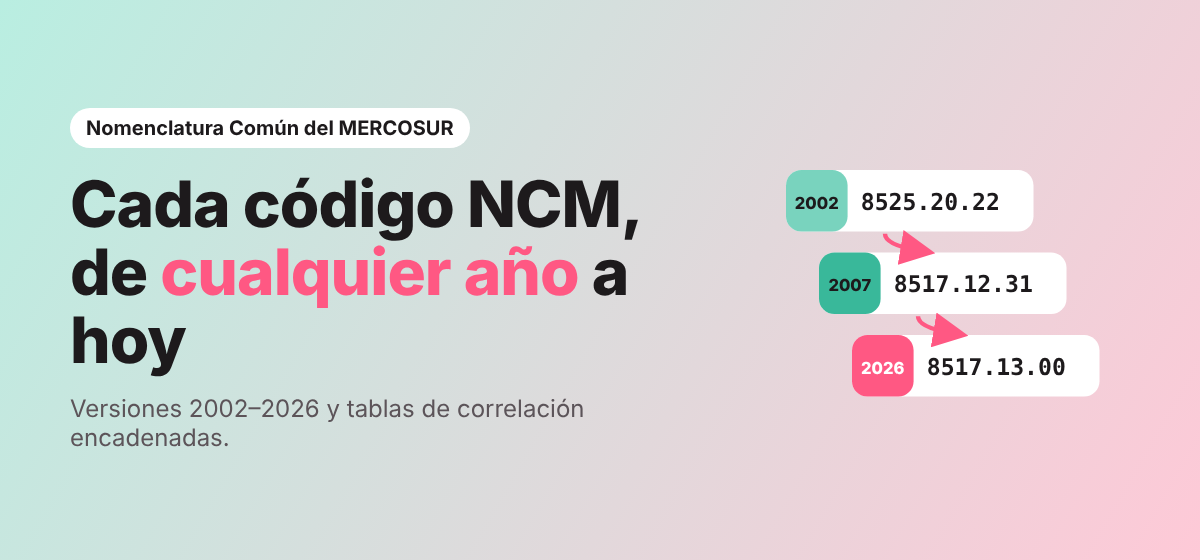
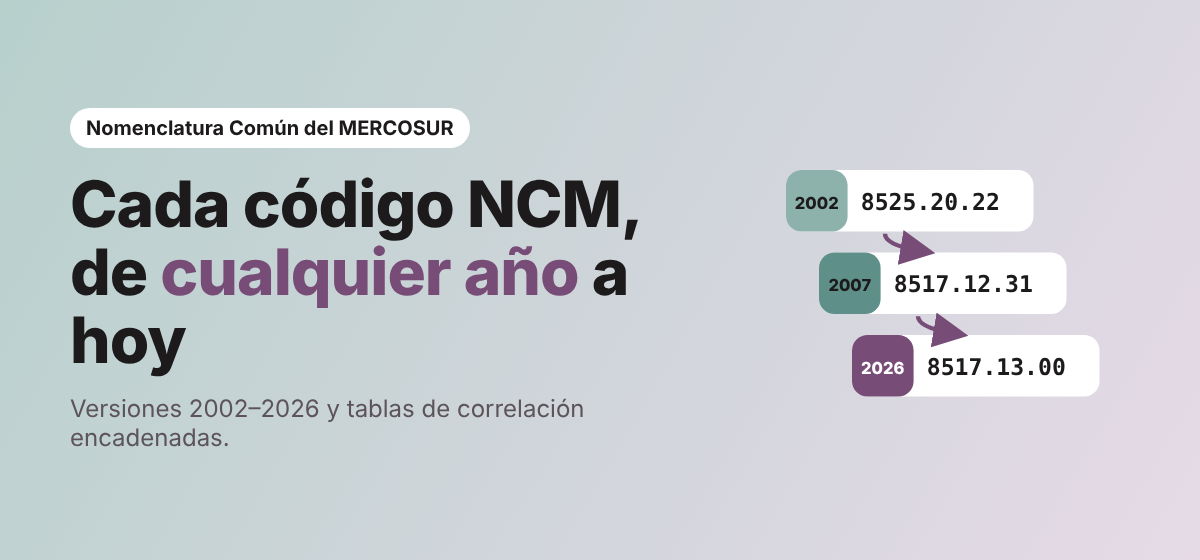
Paleta nueva (violeta y verde agua); al imprimir, siempre tema claro; enlace para bajar cada gráfico con fondo blanco

diff --git a/docs/listas.html b/docs/listas.html
@@ -13,21 +13,21 @@
 <meta property="og:url" content="https://silvia-mov.github.io/nomenclaturas-y-correlaciones-del-mercosur/listas.html">
 <style>
 :root {
-  --bg: #fffafb; --panel: #ffffff; --text: #1d1a1c; --text2: #5c5459; --line: #f3dde4;
-  --s1: #39b89a; --s2: #fec9d7; --s3: #ff5883; --s4: #79d3be; --accent: #1f7f68; --code: #fdf0f4; --link: #1f7f68; --btn: #39b89a; --btntext: #08261f; --hero1: #b9eee1; --hero2: #fec9d7;
-  --tag: #fec9d7; --tagtext: #7a2440; --s2b: #e7a3b8;
+  --bg: #fdfaf3; --panel: #ffffff; --text: #1d1a1c; --text2: #5c5459; --line: #e9e1d3;
+  --s1: #5e8f88; --s2: #e6dae7; --s3: #774d78; --s4: #8db2ac; --accent: #3f6b65; --code: #f7f1e6; --link: #3f6b65; --btn: #5e8f88; --btntext: #08261f; --hero1: #b7d0cc; --hero2: #e6dae7;
+  --tag: #e6dae7; --tagtext: #4f3050; --s2b: #c7b0c8;
 }
 @media (prefers-color-scheme: dark) {
   :root:not([data-theme="light"]) {
     --bg: #161314; --panel: #201b1d; --text: #f5eef1; --text2: #bfb3b8; --line: #3a2f33;
-    --s1: #39b89a; --s2: #6b3a4a; --s3: #ff91ad; --s4: #b9eee1; --accent: #79d3be; --code: #2a2225; --link: #79d3be; --btn: #39b89a; --btntext: #08261f; --hero1: #123a31; --hero2: #3d1a26;
-    --tag: #3d1a26; --tagtext: #ffc2d2; --s2b: #c9758f;
+    --s1: #5e8f88; --s2: #4a3a4d; --s3: #af8eb1; --s4: #b7d0cc; --accent: #8db2ac; --code: #2a2225; --link: #8db2ac; --btn: #5e8f88; --btntext: #08261f; --hero1: #24403c; --hero2: #3a2a3b;
+    --tag: #3a2a3b; --tagtext: #d9c6da; --s2b: #9c7a9e;
   }
 }
 :root[data-theme="dark"] {
   --bg: #161314; --panel: #201b1d; --text: #f5eef1; --text2: #bfb3b8; --line: #3a2f33;
-  --s1: #39b89a; --s2: #6b3a4a; --s3: #ff91ad; --s4: #b9eee1; --accent: #79d3be; --code: #2a2225; --link: #79d3be; --btn: #39b89a; --btntext: #08261f; --hero1: #123a31; --hero2: #3d1a26;
-  --tag: #3d1a26; --tagtext: #ffc2d2; --s2b: #c9758f;
+  --s1: #5e8f88; --s2: #4a3a4d; --s3: #af8eb1; --s4: #b7d0cc; --accent: #8db2ac; --code: #2a2225; --link: #8db2ac; --btn: #5e8f88; --btntext: #08261f; --hero1: #24403c; --hero2: #3a2a3b;
+  --tag: #3a2a3b; --tagtext: #d9c6da; --s2b: #9c7a9e;
 }
 * { box-sizing: border-box; }
 html { -webkit-text-size-adjust: 100%; }
@@ -95,10 +95,10 @@ details { border-bottom: 1px solid var(--line); padding: 10px 0; max-width: 760p
 summary { cursor: pointer; font-weight: 600; }
 footer { margin-top: 48px; padding: 28px 0 48px; border-top: 1px solid var(--line); font-size: 14px; color: var(--text2); }
 .comentar { margin: 40px auto 0; max-width: 960px; padding: 0 16px; }
-.comentar .caja { border: 1.5px dashed #79d3be; border-radius: 12px; padding: 18px 20px; }
+.comentar .caja { border: 1.5px dashed #8db2ac; border-radius: 12px; padding: 18px 20px; }
 .comentar h2 { margin: 0 0 8px; }
 .comentar p { margin: 0 0 14px; }
-.comentar a.boton { display: inline-block; padding: 9px 16px; border-radius: 8px; background: #39b89a; color: #08261f; font-weight: 600; text-decoration: none; }
+.comentar a.boton { display: inline-block; padding: 9px 16px; border-radius: 8px; background: #5e8f88; color: #08261f; font-weight: 600; text-decoration: none; }
 .sr { position: absolute; width: 1px; height: 1px; overflow: hidden; clip: rect(0 0 0 0); white-space: nowrap; }
 @media print { nav.toc, .btns, .consulta, .comentar { display: none !important; } }
 .aviso-top { background: var(--panel); border-bottom: 1px solid var(--line); color: var(--text2); font-size: 13.5px; text-align: center; padding: 7px 16px; }
@@ -352,6 +352,31 @@ footer { margin-top: 48px; padding: 28px 0 48px; border-top: 1px solid var(--lin
     D = d;
     r.innerHTML = '<p class="chica">Listo: ' + Object.keys(d.codigos).length.toLocaleString('es-PY') + ' códigos que estuvieron en alguna lista entre 2018 y 2026.</p>';
   }).catch(function () { r.innerHTML = '<p class="chica">No se pudieron cargar los datos. Probá de nuevo más tarde.</p>'; });
+})();
+</script>
+<script>
+/* Al imprimir: siempre tema claro y gráficos con fondo blanco. Debajo de cada gráfico, un enlace para bajarlo en versión clara. */
+(function () {
+  var st = document.createElement("style");
+  st.textContent = ".dl-graf{display:inline-block;font-size:13px;margin:6px 0 0;color:var(--link,inherit)}@media print{.dl-graf{display:none}}";
+  document.head.appendChild(st);
+  var antes = null;
+  addEventListener("beforeprint", function () {
+    var r = document.documentElement; antes = r.getAttribute("data-theme"); r.setAttribute("data-theme", "light");
+    document.querySelectorAll('picture source[media*="dark"]').forEach(function (s) { s.dataset.m = s.media; s.media = "not all"; });
+  });
+  addEventListener("afterprint", function () {
+    var r = document.documentElement; if (antes === null) r.removeAttribute("data-theme"); else r.setAttribute("data-theme", antes);
+    document.querySelectorAll("picture source[data-m]").forEach(function (s) { s.media = s.dataset.m; });
+  });
+  document.querySelectorAll("picture img").forEach(function (img) {
+    var src = img.getAttribute("src") || "";
+    if (!/_light\.png$/.test(src) || /tarjeta/.test(src)) return;
+    var a = document.createElement("a");
+    a.href = src; a.download = src.split("/").pop().replace("_light", ""); a.className = "dl-graf";
+    a.textContent = "Descargar gráfico (fondo blanco)";
+    img.closest("picture").insertAdjacentElement("afterend", a);
+  });
 })();
 </script>
 </body>

diff --git a/docs/index.html b/docs/index.html
@@ -14,21 +14,21 @@
 <meta property="og:image" content="https://silvia-mov.github.io/nomenclaturas-y-correlaciones-del-mercosur/img/tarjeta_light.png">
 <style>
 :root {
-  --bg: #fffafb; --panel: #ffffff; --text: #1d1a1c; --text2: #5c5459; --line: #f3dde4;
-  --s1: #39b89a; --s2: #fec9d7; --s3: #ff5883; --s4: #79d3be; --accent: #1f7f68; --code: #fdf0f4; --link: #1f7f68; --btn: #39b89a; --btntext: #08261f; --hero1: #b9eee1; --hero2: #fec9d7;
-  --tag: #fec9d7; --tagtext: #7a2440;
+  --bg: #fdfaf3; --panel: #ffffff; --text: #1d1a1c; --text2: #5c5459; --line: #e9e1d3;
+  --s1: #5e8f88; --s2: #e6dae7; --s3: #774d78; --s4: #8db2ac; --accent: #3f6b65; --code: #f7f1e6; --link: #3f6b65; --btn: #5e8f88; --btntext: #08261f; --hero1: #b7d0cc; --hero2: #e6dae7;
+  --tag: #e6dae7; --tagtext: #4f3050;
 }
 @media (prefers-color-scheme: dark) {
   :root:not([data-theme="light"]) {
     --bg: #161314; --panel: #201b1d; --text: #f5eef1; --text2: #bfb3b8; --line: #3a2f33;
-    --s1: #39b89a; --s2: #6b3a4a; --s3: #ff91ad; --s4: #b9eee1; --accent: #79d3be; --code: #2a2225; --link: #79d3be; --btn: #39b89a; --btntext: #08261f; --hero1: #123a31; --hero2: #3d1a26;
-    --tag: #3d1a26; --tagtext: #ffc2d2;
+    --s1: #5e8f88; --s2: #4a3a4d; --s3: #af8eb1; --s4: #b7d0cc; --accent: #8db2ac; --code: #2a2225; --link: #8db2ac; --btn: #5e8f88; --btntext: #08261f; --hero1: #24403c; --hero2: #3a2a3b;
+    --tag: #3a2a3b; --tagtext: #d9c6da;
   }
 }
 :root[data-theme="dark"] {
   --bg: #161314; --panel: #201b1d; --text: #f5eef1; --text2: #bfb3b8; --line: #3a2f33;
-  --s1: #39b89a; --s2: #6b3a4a; --s3: #ff91ad; --s4: #b9eee1; --accent: #79d3be; --code: #2a2225; --link: #79d3be; --btn: #39b89a; --btntext: #08261f; --hero1: #123a31; --hero2: #3d1a26;
-  --tag: #3d1a26; --tagtext: #ffc2d2;
+  --s1: #5e8f88; --s2: #4a3a4d; --s3: #af8eb1; --s4: #b7d0cc; --accent: #8db2ac; --code: #2a2225; --link: #8db2ac; --btn: #5e8f88; --btntext: #08261f; --hero1: #24403c; --hero2: #3a2a3b;
+  --tag: #3a2a3b; --tagtext: #d9c6da;
 }
 * { box-sizing: border-box; }
 html { -webkit-text-size-adjust: 100%; }
@@ -87,10 +87,10 @@ details { border-bottom: 1px solid var(--line); padding: 10px 0; max-width: 760p
 summary { cursor: pointer; font-weight: 600; }
 footer { margin-top: 48px; padding: 28px 0 48px; border-top: 1px solid var(--line); font-size: 14px; color: var(--text2); }
 .comentar { margin: 40px auto 0; max-width: 960px; padding: 0 16px; }
-.comentar .caja { border: 1.5px dashed #79d3be; border-radius: 12px; padding: 18px 20px; }
+.comentar .caja { border: 1.5px dashed #8db2ac; border-radius: 12px; padding: 18px 20px; }
 .comentar h2 { margin: 0 0 8px; }
 .comentar p { margin: 0 0 14px; }
-.comentar a.boton { display: inline-block; padding: 9px 16px; border-radius: 8px; background: #39b89a; color: #08261f; font-weight: 600; text-decoration: none; }
+.comentar a.boton { display: inline-block; padding: 9px 16px; border-radius: 8px; background: #5e8f88; color: #08261f; font-weight: 600; text-decoration: none; }
 .sr { position: absolute; width: 1px; height: 1px; overflow: hidden; clip: rect(0 0 0 0); white-space: nowrap; }
 @media print { nav.toc, .btns, .consulta, .comentar { display: none !important; } }
 
@@ -273,6 +273,31 @@ footer { margin-top: 48px; padding: 28px 0 48px; border-top: 1px solid var(--lin
   document.getElementById("f").addEventListener("submit", e => { e.preventDefault(); buscar(q.value);
     const c = q.value.replace(/\D/g, ""); if (c) history.replaceState(null, "", "?codigo=" + c + "#buscar"); });
   document.querySelectorAll(".ejemplos a").forEach(a => a.addEventListener("click", () => { q.value = a.dataset.c; buscar(a.dataset.c); }));
+})();
+</script>
+<script>
+/* Al imprimir: siempre tema claro y gráficos con fondo blanco. Debajo de cada gráfico, un enlace para bajarlo en versión clara. */
+(function () {
+  var st = document.createElement("style");
+  st.textContent = ".dl-graf{display:inline-block;font-size:13px;margin:6px 0 0;color:var(--link,inherit)}@media print{.dl-graf{display:none}}";
+  document.head.appendChild(st);
+  var antes = null;
+  addEventListener("beforeprint", function () {
+    var r = document.documentElement; antes = r.getAttribute("data-theme"); r.setAttribute("data-theme", "light");
+    document.querySelectorAll('picture source[media*="dark"]').forEach(function (s) { s.dataset.m = s.media; s.media = "not all"; });
+  });
+  addEventListener("afterprint", function () {
+    var r = document.documentElement; if (antes === null) r.removeAttribute("data-theme"); else r.setAttribute("data-theme", antes);
+    document.querySelectorAll("picture source[data-m]").forEach(function (s) { s.media = s.dataset.m; });
+  });
+  document.querySelectorAll("picture img").forEach(function (img) {
+    var src = img.getAttribute("src") || "";
+    if (!/_light\.png$/.test(src) || /tarjeta/.test(src)) return;
+    var a = document.createElement("a");
+    a.href = src; a.download = src.split("/").pop().replace("_light", ""); a.className = "dl-graf";
+    a.textContent = "Descargar gráfico (fondo blanco)";
+    img.closest("picture").insertAdjacentElement("afterend", a);
+  });
 })();
 </script>
 </body>

diff --git a/python/grafico_tarjeta.py b/python/grafico_tarjeta.py
@@ -8,9 +8,9 @@ t=t.loc[sorted(t.index,key=lambda s:[int(x) for x in s.split("-")])]
 paso_anio={p:int(p.split("-")[0]) for p in t.index}
 ty=t.groupby(paso_anio).sum().reindex(range(2003,2027),fill_value=0)
 # colores bien distintos en claridad (se distinguen también con daltonismo): oscuro, medio, claro, oscuro rosado
-COL={"complejo":"#1f6f5c","renumerado":"#ff5883","se divide":"#b9eee1","se fusiona":"#7a1f3d"}
+COL={"complejo":"#3f6b65","renumerado":"#774d78","se divide":"#b7d0cc","se fusiona":"#4f3050"}
 v=pd.read_csv("/home/user/nomenclaturas-y-correlaciones-del-mercosur/datos/versiones.csv"); N=dict(zip(v.version,v.codigos_8_digitos))
-for modo,bg,fg,gr in (("light","#ffffff","#1d1a1c","#f3dde4"),("dark","#201b1d","#f5eef1","#3a2f33")):
+for modo,bg,fg,gr in (("light","#ffffff","#1d1a1c","#e9e1d3"),("dark","#201b1d","#f5eef1","#3a2f33")):
     f,a=plt.subplots(figsize=(12,5.2),dpi=150); f.patch.set_facecolor(bg); a.set_facecolor(bg)
     b=None
     for i,c in enumerate(ty.columns):

diff --git a/python/grafico_listas.py b/python/grafico_listas.py
@@ -12,7 +12,7 @@ import pandas as pd
 
 RAIZ = Path(__file__).resolve().parent.parent
 d = pd.read_csv(RAIZ / "datos" / "listas" / "listas_resumen.csv", parse_dates=["fecha"])
-COL = {"BK": "#1f6f5c", "BIT": "#ff5883", "LNE": "#7a1f3d", "RMP": "#39b89a"}
+COL = {"BK": "#3f6b65", "BIT": "#774d78", "LNE": "#4f3050", "RMP": "#5e8f88"}
 NOM = {"BK": "Bienes de capital (BK)", "BIT": "Informática y telecom. (BIT)", "LNE": "Excepciones (LNE)", "RMP": "Materias primas"}
 for modo, bg, fg, gr in (("light", "#ffffff", "#222222", "#dddddd"), ("dark", "#17141a", "#eeeeee", "#333333")):
     f, a = plt.subplots(figsize=(11, 5), dpi=110)

diff --git a/python/grafico_tarjeta_listas.py b/python/grafico_tarjeta_listas.py
@@ -7,7 +7,7 @@ import pandas as pd, matplotlib
 matplotlib.use("Agg"); import matplotlib.pyplot as plt
 
 d = pd.read_csv("datos/listas/listas_resumen.csv", parse_dates=["fecha"])
-COL = {"BK": "#FF5883", "BIT": "#39B89A", "LNE": "#FF91AD", "RMP": "#79D3BE"}
+COL = {"BK": "#774D78", "BIT": "#5E8F88", "LNE": "#AF8EB1", "RMP": "#8DB2AC"}
 NOM = {"BK": "Bienes de capital (BK)", "BIT": "Informática y telecomunicaciones (BIT)",
        "LNE": "Lista nacional de excepciones (LNE)", "RMP": "Materias primas (RMP)"}
 for modo, bg, fg, gr in (("light", "#ffffff", "#222", "#ddd"), ("dark", "#17141a", "#eee", "#333")):
